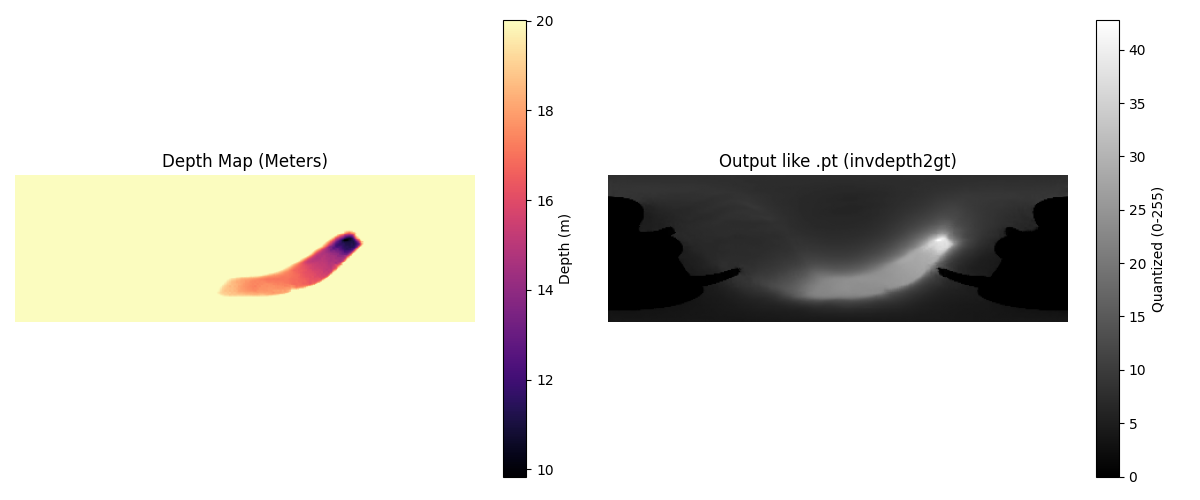
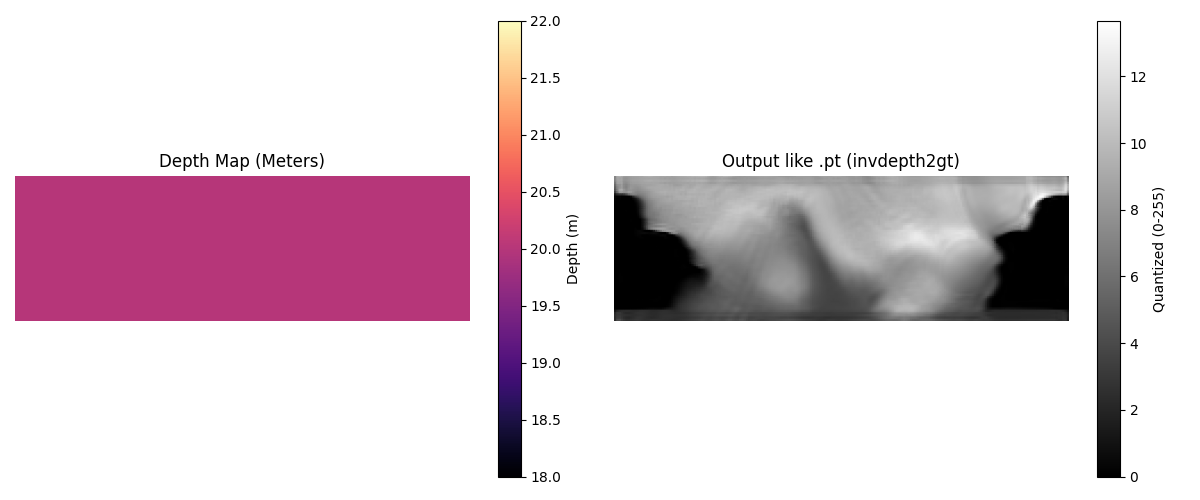
tiny params training

diff --git a/export_onnx_jetson.py b/export_onnx_jetson.py
@@ -16,14 +16,14 @@ def get_opts():
     # Config khớp với export_onnx cũ
     opts.data_opts = Edict({
         'phi_deg': 45.0, 
-        'num_invdepth': 48, 
+        'num_invdepth': 128, 
         'equirect_size': [128, 400], 
         'num_downsample': 1, 
         'use_rgb': False
     })
     opts.net_opts = Edict({
         'base_channel': 16, # Lưu ý: Bạn dùng 16, code cũ dùng 32. Hãy chắc chắn model .pth được train với 16.
-        'num_invdepth': 48, 
+        'num_invdepth': 128, 
         'use_rgb': False, 
         'encoder_downsample_twice': False, 
         'num_downsample': 1, 
@@ -57,8 +57,8 @@ class ROmniStereoONNX(nn.Module):
 def main():
     parser = argparse.ArgumentParser()
     # Đường dẫn đến file .pth đã train (trên Windows)
-    parser.add_argument('--ckpt_path', type=str, default=r"checkpoints/romnistereo32_v14_bs16_e1.pth", help="Path to .pth checkpoint")
-    parser.add_argument('--output_path', type=str, default=r"checkpoints/onnx/romnistereo32_v14_bs16_e1_jetson.onnx", help="Output ONNX file")
+    parser.add_argument('--ckpt_path', type=str, default=r"checkpoints/romnistereo32_v19_bs16_e0.pth", help="Path to .pth checkpoint")
+    parser.add_argument('--output_path', type=str, default=r"checkpoints/onnx/romnistereo32_v19_bs16_e0_jetson.onnx", help="Output ONNX file")
     args = parser.parse_args()
 
     # 1. Load Config & Model

diff --git a/train_u.py b/train_u.py
@@ -55,12 +55,12 @@ parser.add_argument('--dbname', nargs='+', default=['omnithings'], type=str,
 
 # data options
 parser.add_argument('--phi_deg', type=float, default=45.0, help='phi_deg')
-parser.add_argument('--num_invdepth', type=int, default=128, metavar='N', help='number of disparity')
+parser.add_argument('--num_invdepth', type=int, default=48, metavar='N', help='number of disparity')
 parser.add_argument('--equirect_size', type=int, nargs='+', default=[160, 640], help="size of out ERP.")
 parser.add_argument('--use_rgb', action='store_true', help='use 3-channel rgb color images as input')
 
 # net options
-parser.add_argument('--base_channel', type=int, default=16, help='base channel of the network')
+parser.add_argument('--base_channel', type=int, default=8, help='base channel of the network')
 parser.add_argument('--encoder_downsample_twice', action='store_true',
                     help='the feature extractor downsample the fisheye input twice instead once.')
 parser.add_argument('--num_downsample', type=int, default=1, help="resolution of the disparity field (1/2^K)")

diff --git a/build_int8_pc.py b/build_int8_pc.py
@@ -9,8 +9,8 @@ import gc
 
 # ================= CẤU HÌNH (SỬA ĐƯỜNG DẪN NẾU CẦN) =================
 # Lưu ý: Hãy chắc chắn bạn đang dùng file ONNX được export với Opset 13
-ONNX_PATH = "checkpoints/onnx/romnistereo32_v14_bs16_e1_jetson.onnx"
-ENGINE_PATH = "checkpoints/onnx/romnistereo_int8_v2.engine"
+ONNX_PATH = "checkpoints/onnx/romnistereo32_v19_bs16_e0_jetson.onnx"
+ENGINE_PATH = "checkpoints/onnx/romnistereo32_v19_bs16_e0_jetson.engine"
 CALIB_DATA_DIR = "calib_data_npy"
 CACHE_FILE = "calib.cache"
 BATCH_SIZE = 1
@@ -195,6 +195,6 @@ def build_engine():
     except Exception as e:
         print(f"\n❌ Có lỗi (có thể bỏ qua nếu file cache đã được tạo): {e}")
 
-        
+
 if __name__ == "__main__":
     build_engine()

diff --git a/inference.py b/inference.py
@@ -12,7 +12,7 @@ from dataset import Dataset
 # ==========================================
 # 1. CONFIGURATION
 # ==========================================
-ONNX_PATH = r"F:\algo\mvs_v119\checkpoints\onnx\romnistereo32_v13_bs16_e194_jetson.onnx"
+ONNX_PATH = r"F:\algo\mvs_v119\checkpoints\onnx\romnistereo32_v19_bs16_e0_jetson.onnx"
 DB_ROOT = r"F:\Full-Dataset\hyp_data\hyp_data_01\hyp_data_01_trainable"
 DB_NAME = "omnithings"
 

diff --git a/dataset.py b/dataset.py
@@ -90,7 +90,7 @@ class Dataset(torch.utils.data.Dataset):
         opts.gt_depth_fmt = 'omnidepth_gt_%d/%05d.npy'  # [equi_w, fidx]
 
         # opts.equirect_size, opts.num_invdepth = [160, 640], 192
-        opts.equirect_size, opts.num_invdepth = [128, 400], 128
+        opts.equirect_size, opts.num_invdepth = [128, 400], 48
 
         opts.num_downsample = 1
         opts.phi_deg, opts.phi2_deg = 45, -1.0
